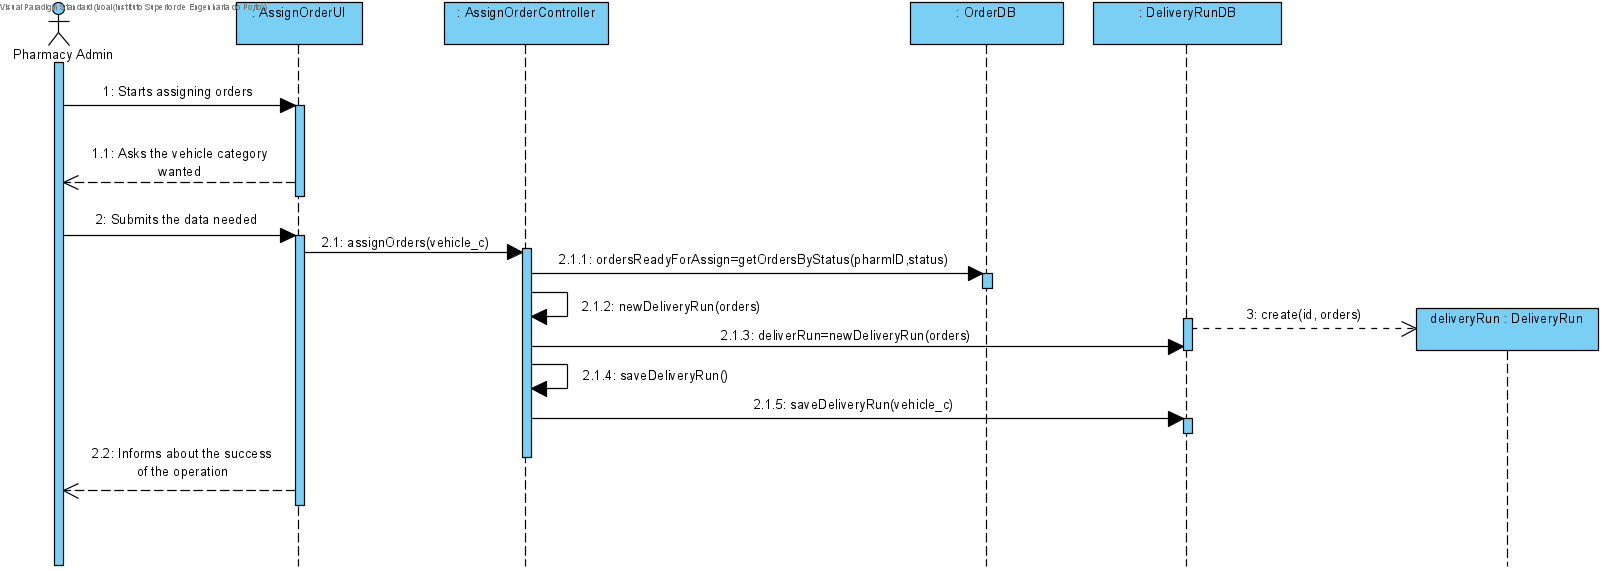
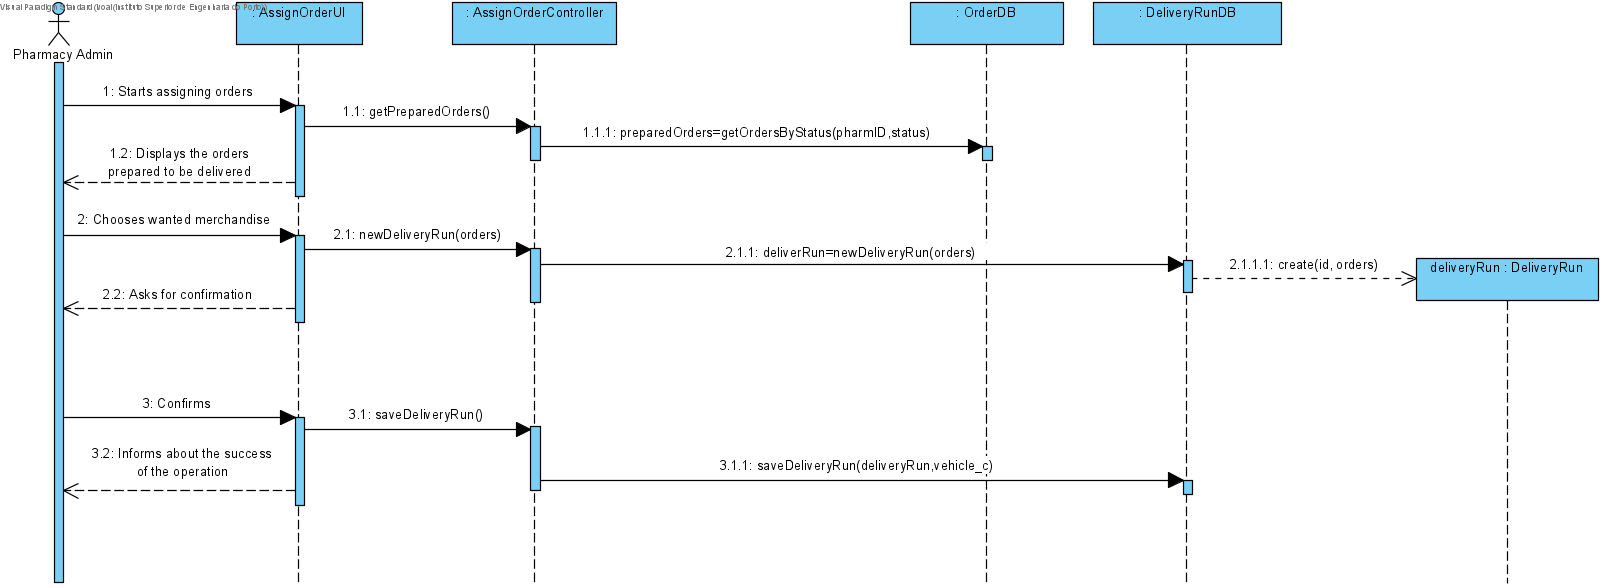
MEN09-235 #close Assign Orders [Design]

diff --git a/documentation/use_cases/UC21/UC21_AssignOrder.md b/documentation/use_cases/UC21/UC21_AssignOrder.md
@@ -1,7 +1,7 @@
 # UC21 - Assign Order
 
 ## 1. Requirements Engineering
-The pharmacy administrator requests the assignment of the prepared orders. The system asks for the vehicle's category. The pharmacy administrator submits the data needed. The system Informs the pharmacy administrator about the success of the operation.
+The pharmacy administrator requests the assignment of the prepared orders. The system shows the already prepared orders. The pharmacy administrator chooses the merchandise wanted. The system asks for confirmation. The pharmacy administrator confirms. The system informs the pharmacy administrator about the success of the operation.
 
 ## SSD
 ![UC21_SSD.png](UC21_SSD.png)
